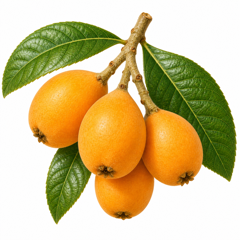
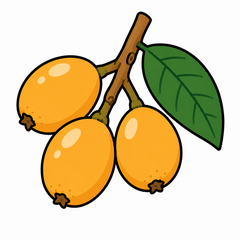
feat: おぼん・びわのイラストを差し替え＆白黒自動生成
- おぼん: 仏壇→盆踊りイラストに差し替え
- びわ: 写真風→イラスト風に差し替え、SVG→PNG化

diff --git a/index.html b/index.html
@@ -3812,12 +3812,12 @@ function submitNakamawake() {
 
 // ===== IMAGE RENDERING =====
 // 白黒PNG対応済み
-const PNG_READY = new Set(["sakura","tulip","tanpopo","nanohana","tsutsuji","sumire","carnation","pansy","clover","renge","himawari","asagao","cosmos","kiku","ajisai","yuri","kinmokusei","higanbana","tsubaki","ume","suisen","cyclamen","chocho","tentomushi","mitsubachi","ari","kabutomushi","kuwagata","semi","hotaru","tonbo","suzumushi","korogi","batta","hinamatsuri","setsubun","tanabata","oshogatsu","osechi","hagoita","kagamimochi","ohanami","kodomonohi","nyuugakushiki","hahanohi","hanabi","kaisuiyoku","suikawari","otsukimi","shichigosan","momijigari","halloween","christmas","yukiasobi","omisoka","obon","ichigo","takenoko","cabbage","sakuranbo","nasu","ringo","tomato","kyuri","soramame","suika","corn","momo","satsumaimo","kaki","budou","kuri","mikan","daikon","hakusai","hourensou","broccoli","uchiwa","furoshiki","koma","kendama","taiko","hasami","houki","baketsu","sukoppu","nokogiri","kanaduchi","fue","rappa","mushimegane","randoseru","enpitsu","kanna","geta","kasa","piano","karuta","fude","tako","origami","kyuusu","sutoobu","monosashi","konpasu","yakan","omochitsuki","furin","yukidaruma","sukeeto","kikyuu","minomushi","taka","washi","kujaku","imohori","shishimai","sukii"]);
+const PNG_READY = new Set(["sakura","tulip","tanpopo","nanohana","tsutsuji","sumire","carnation","pansy","clover","renge","himawari","asagao","cosmos","kiku","ajisai","yuri","kinmokusei","higanbana","tsubaki","ume","suisen","cyclamen","chocho","tentomushi","mitsubachi","ari","kabutomushi","kuwagata","semi","hotaru","tonbo","suzumushi","korogi","batta","hinamatsuri","setsubun","tanabata","oshogatsu","osechi","hagoita","kagamimochi","ohanami","kodomonohi","nyuugakushiki","hahanohi","hanabi","kaisuiyoku","suikawari","otsukimi","shichigosan","momijigari","halloween","christmas","yukiasobi","omisoka","obon","ichigo","takenoko","cabbage","sakuranbo","nasu","ringo","tomato","kyuri","soramame","suika","corn","momo","satsumaimo","kaki","budou","kuri","mikan","daikon","hakusai","hourensou","broccoli","uchiwa","furoshiki","koma","kendama","taiko","hasami","houki","baketsu","sukoppu","nokogiri","kanaduchi","fue","rappa","mushimegane","randoseru","enpitsu","kanna","geta","kasa","piano","karuta","fude","tako","origami","kyuusu","sutoobu","monosashi","konpasu","yakan","omochitsuki","furin","yukidaruma","sukeeto","kikyuu","minomushi","taka","washi","kujaku","imohori","shishimai","sukii","biwa"]);
 // カラーPNG対応済み
 const COLOR_READY = new Set(["sakura","tulip","tanpopo","nanohana","tsutsuji","sumire","carnation","pansy","clover","renge","himawari","asagao","cosmos","kiku","ajisai","yuri","kinmokusei","higanbana","tsubaki","ume","suisen","cyclamen","chocho","tentomushi","mitsubachi","ari","kabutomushi","kuwagata","semi","hotaru","tonbo","suzumushi","korogi","batta","hinamatsuri","setsubun","tanabata","oshogatsu","osechi","hagoita","kagamimochi","ohanami","kodomonohi","nyuugakushiki","hahanohi","hanabi","kaisuiyoku","suikawari","otsukimi","shichigosan","momijigari","halloween","christmas","yukiasobi","omisoka","obon","ichigo","takenoko","cabbage","sakuranbo","nasu","ringo","tomato","kyuri","soramame","suika","corn","momo","satsumaimo","kaki","budou","kuri","mikan","daikon","hakusai","hourensou","broccoli","ayame","fuji","hasu","dahlia","sazanka","poinsettia","kamakiri","dangomushi","katatsumuri","kumo","amenbo","tamanegi","kabocha","nashi","biwa","gobou","kabu","shiitake","asparagus","chichinohi","omochitsuki","uchiwa","furoshiki","koma","kendama","taiko","hasami","houki","baketsu","sukoppu","nokogiri","kanaduchi","fue","rappa","mushimegane","randoseru","enpitsu","kanna","geta","kasa","piano","karuta","fude","tako","origami","kyuusu","sutoobu","monosashi","konpasu","yakan","furin","senpuki","shimekazari","hotchikisu","houijishaku","jouro","raitaa","matchi","sensu","katorisenko","kokeshi","penchi","chiritori","kattaa","airon","mishin","mannenhitsu","nabe","furaipan","otama","shamoji","menbou","zaru","surikogi","suribachi","potto","hakari","sentakubasami","taionkei","kagi","doraiyaa","kureyon","hangaa","seroteepu","gabyou","howaitoboodo","kokuban","soroban","hibachi","chouchin","waraji","ojami","taketombo","mugiwaraboushi","ukiwa","kakigoori","donguri","ine","tebukuro","yukidaruma","sukeeto","kikyuu","minomushi","taka","washi","kujaku","imohori","shishimai","sukii"]);
 
 // 白黒SVG対応済み（PNGがないがSVGがあるもの）
-const SVG_READY = new Set(["ayame","fuji","hasu","dahlia","sazanka","poinsettia","kamakiri","dangomushi","katatsumuri","kumo","amenbo","tamanegi","kabocha","nashi","biwa","gobou","kabu","shiitake","asparagus","chichinohi"]);
+const SVG_READY = new Set(["ayame","fuji","hasu","dahlia","sazanka","poinsettia","kamakiri","dangomushi","katatsumuri","kumo","amenbo","tamanegi","kabocha","nashi","gobou","kabu","shiitake","asparagus","chichinohi"]);
 
 // mode: 'color' = カラー優先, 'bw' = 白黒のみ, 'random' = ランダム
 function getIcon(name, mode = 'color', eager = false) {